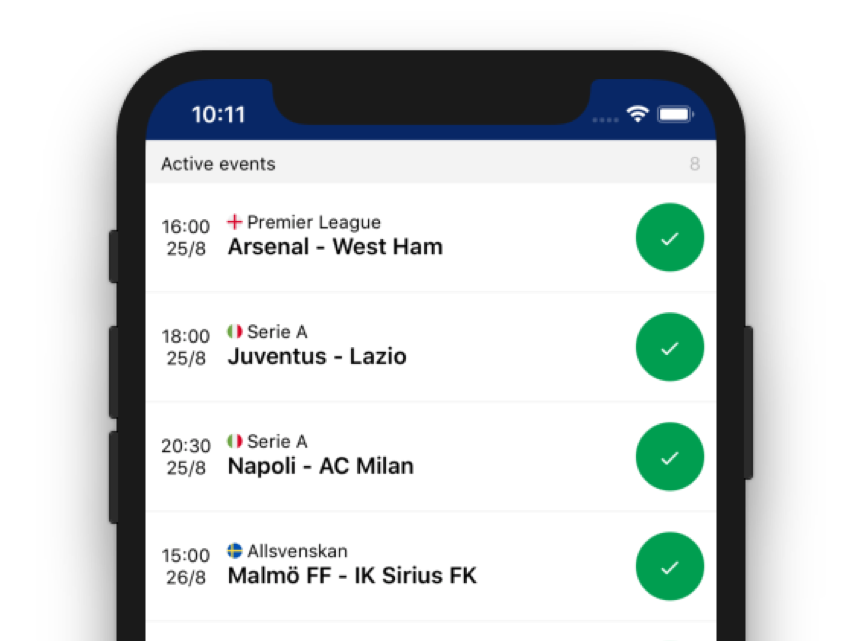
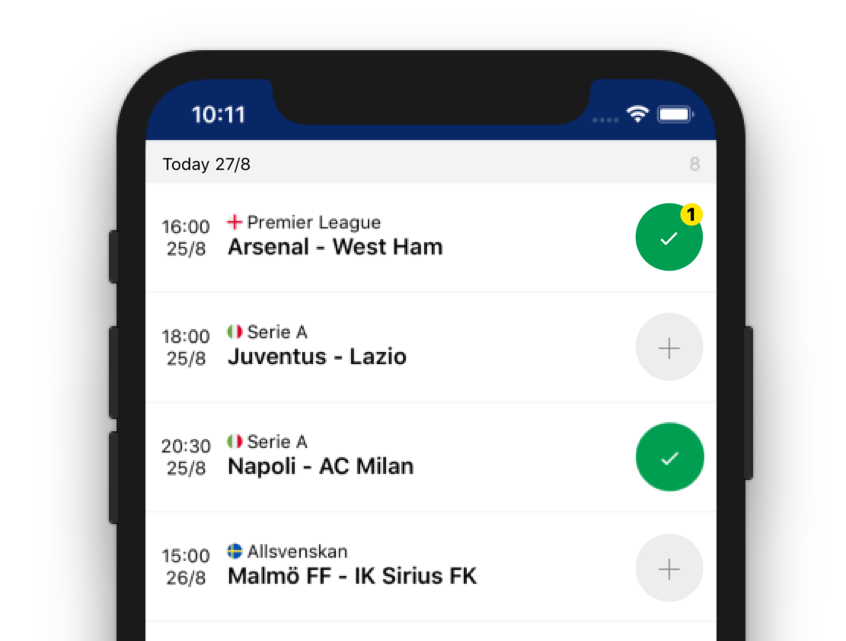
TRGG-1117: Update images and text

diff --git a/index.html b/index.html
@@ -48,7 +48,7 @@
             <div data-aos="fade-up" data-aos-delay="0" data-aos-duration="1000" data-aos-once="true" class="col-md-4 text-center">
                 <img style="margin-bottom: 20px" src="img/usp1.png" class="mx-auto">
                 <h4>Follow your favorites</h4>
-                <p>Get live updates in-app and push notifications about your favorite games.</p>
+                <p>Toggle on your favorite games to get live updates in-app and push notifications.</p>
             </div>
             <div data-aos="fade-up" data-aos-delay="200" data-aos-duration="1000" data-aos-once="true" class="col-md-4 text-center">
                 <img style="margin-bottom: 20px" src="img/usp2.png" class="mx-auto">
